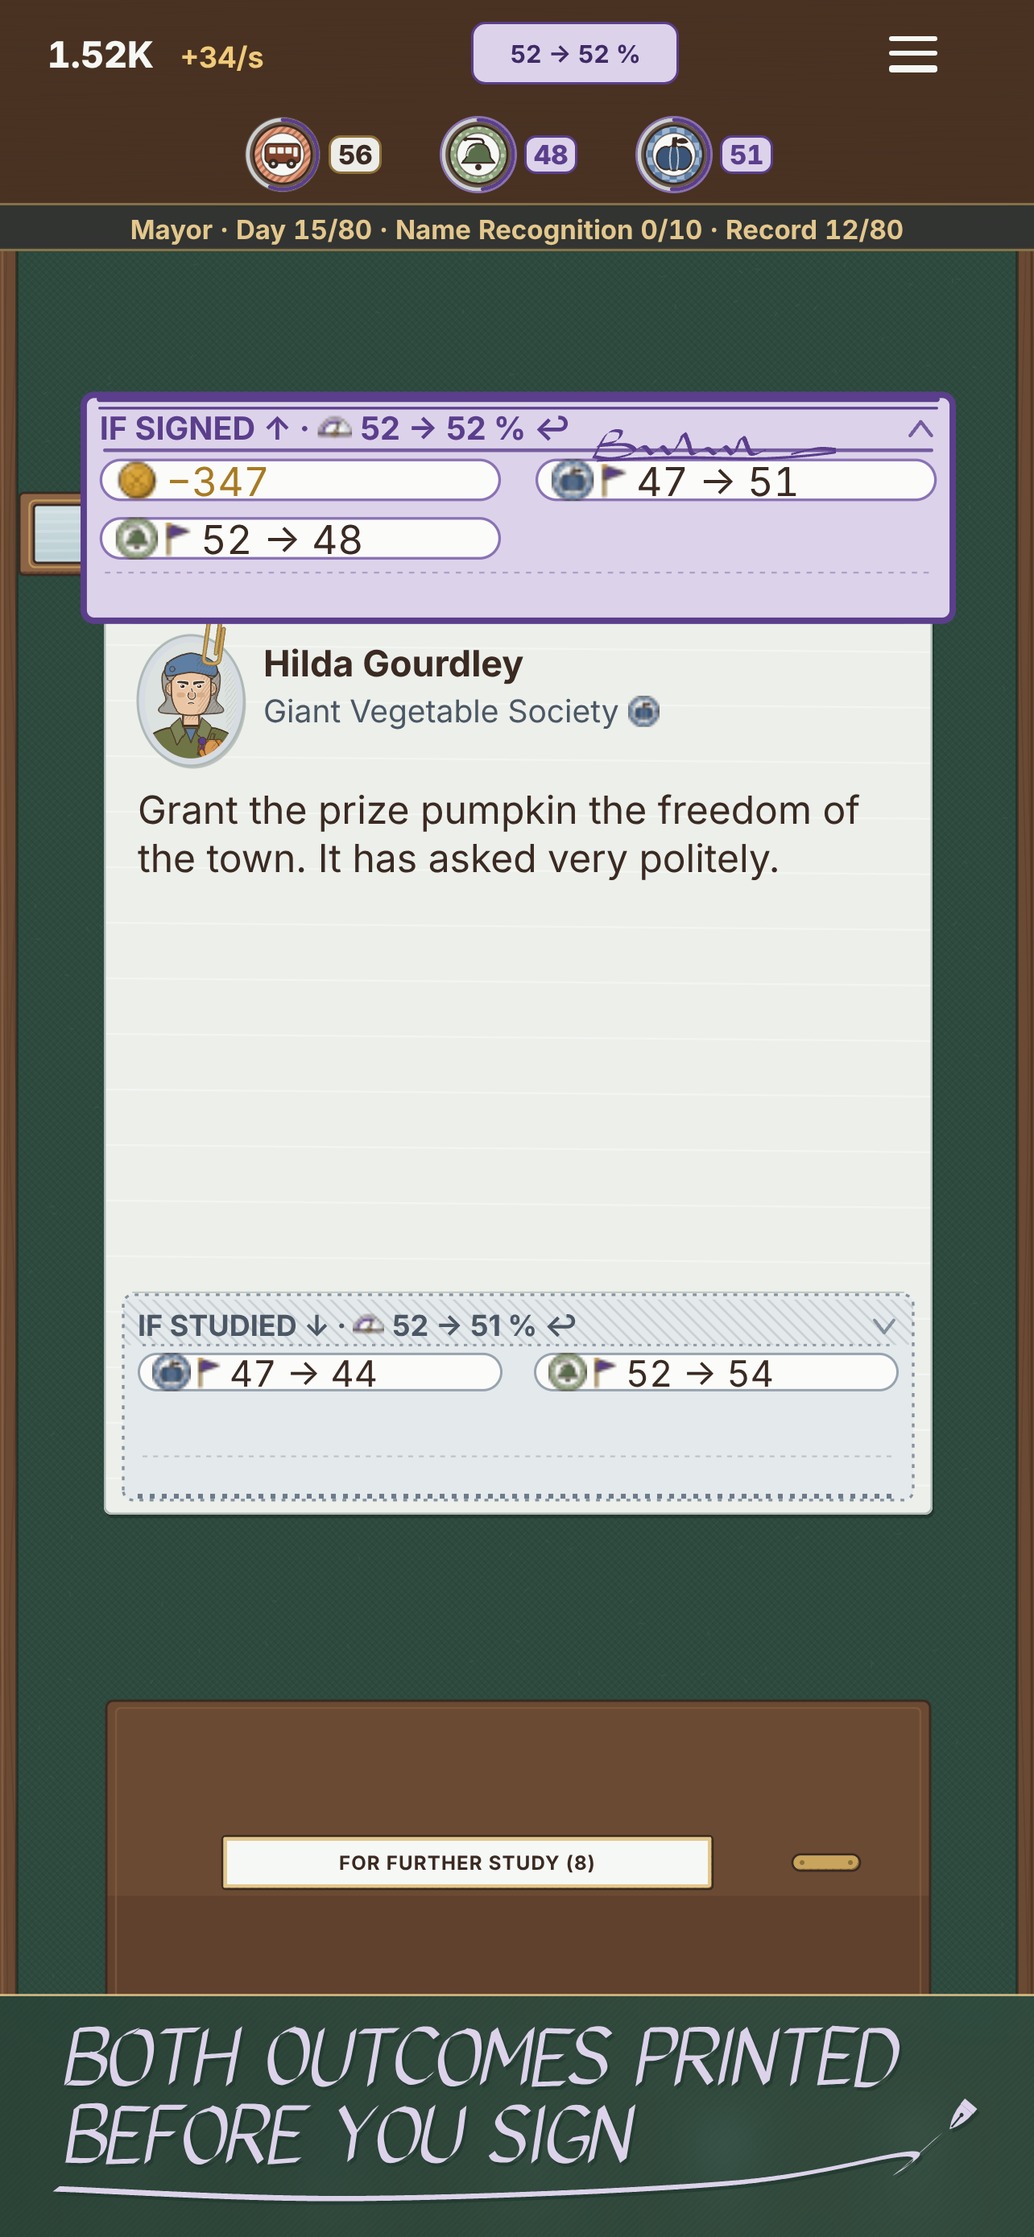
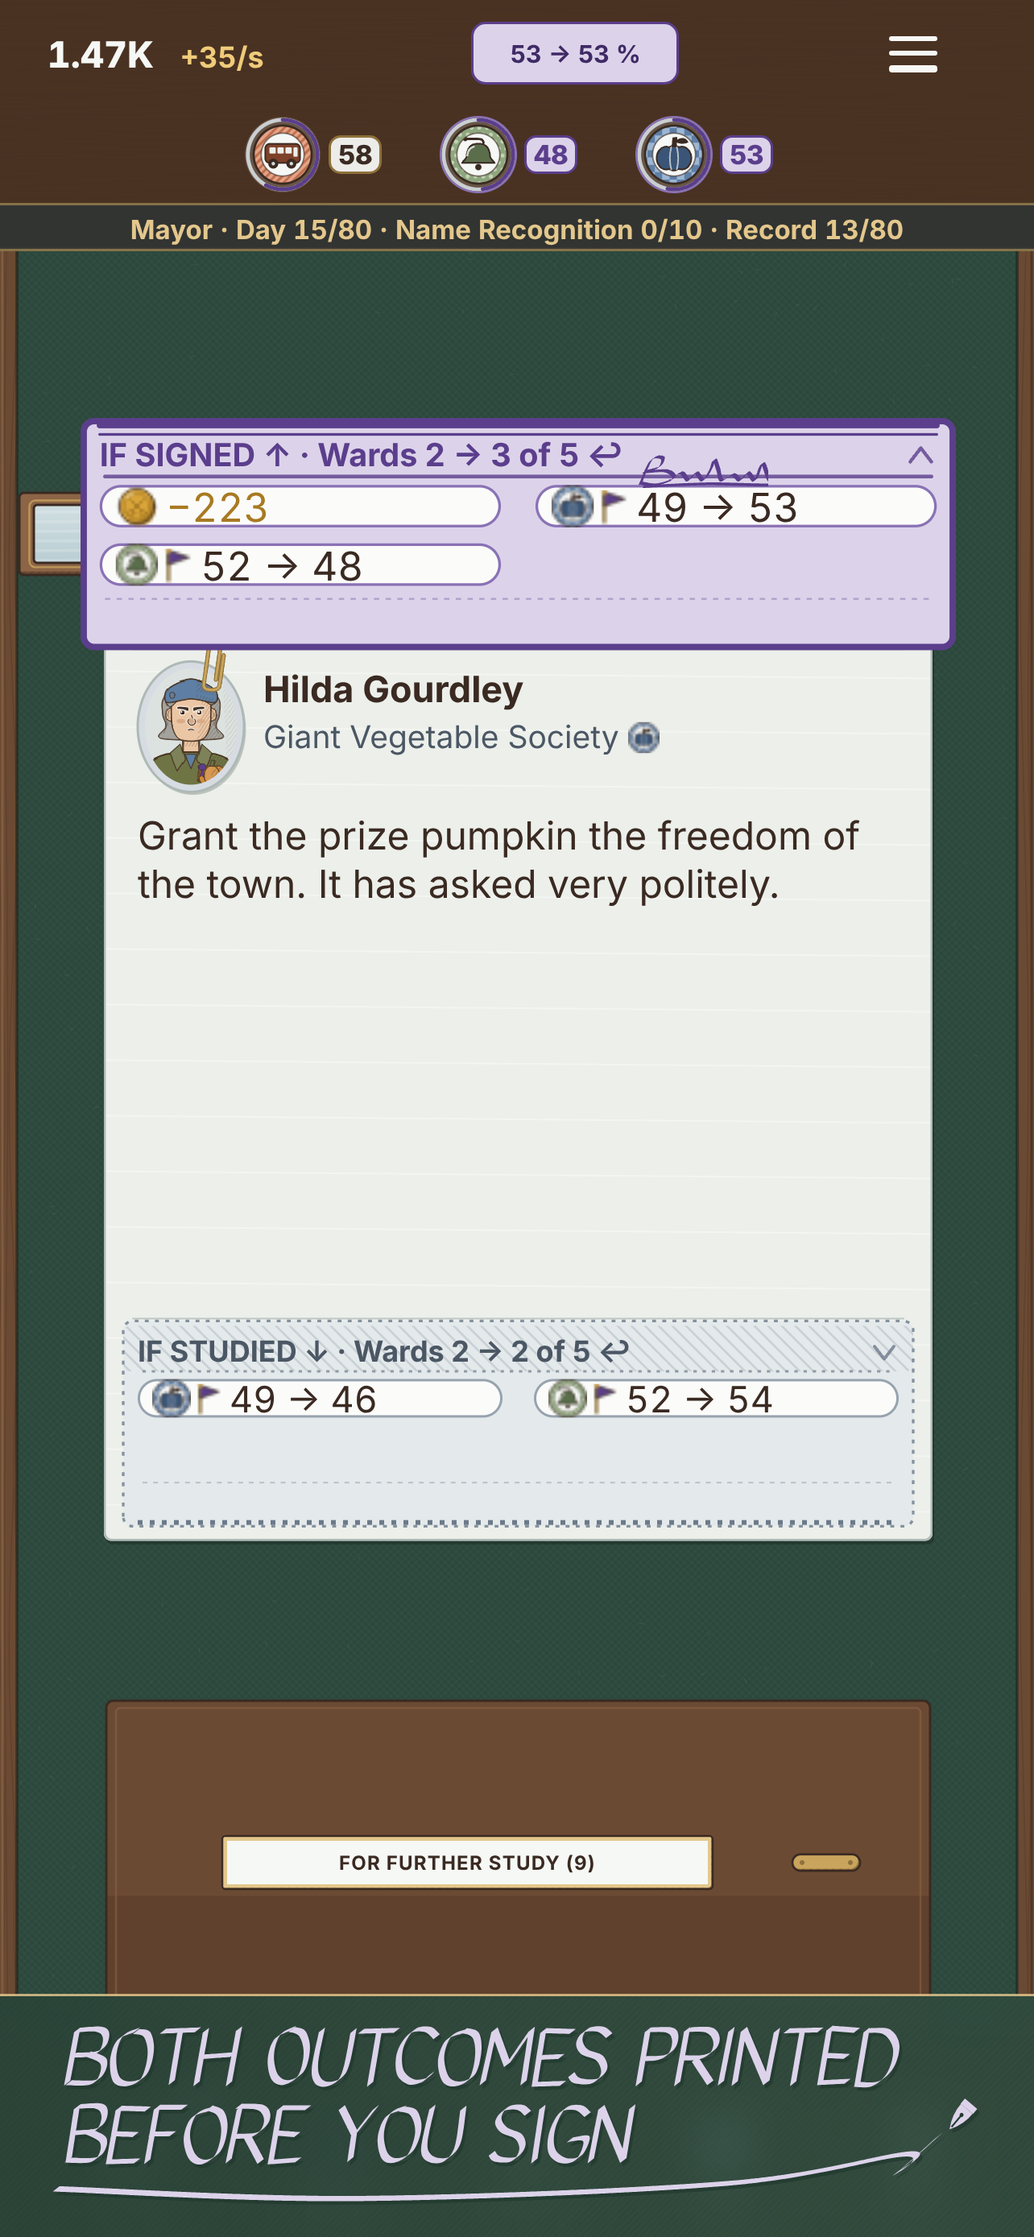
WIP High Office build in progress
Claude-Session: https://claude.ai/code/session_01DEV5UwHtj2bSoyrJab4q6m

Changed region(s): [[0.0623, 0.1548, 0.9346, 0.4024], [0.0935, 0.5572, 0.9034, 0.712], [0.0623, 0.0, 0.1246, 0.031]]

diff --git a/src/engine/decree/draw.ts b/src/engine/decree/draw.ts
@@ -8,8 +8,9 @@
  * undrawn or undecided (3.1); (3) a follow-up past its dueAt, earliest first (followup.ts: it was
  * scheduled at its set-up's commit, so never without its decided set-up); (4) a form due: the next
  * application (ministers.ts `nextApplication`; D21: only for a club the office has), a ribbon at a new
- * storey (`ribbonsDue`), a requisition every n-th draw for the open ministry with the best payback the
- * treasury can pay when it is drawn, else the cheapest next level (D16); (5) a template with
+ * storey (`ribbonsDue`) once the treasury holds its price, a requisition every n-th draw for the open
+ * ministry with the best payback the treasury can pay when it is drawn (D46 (c): none payable, its turn
+ * is kept and another paper comes); (5) a template with
  * probability q from the shuffled frame bag (none twice before it empties); else a comic paper by
  * clubWeight × share / cell size (D20: Vanity and Basket are one club-less cell per office; D28: a
  * club-less text carries the sum of the office's clubs' weights). With no unseen comic text left: a
@@ -36,8 +37,8 @@ import { shares } from './count';
 // followup.ts builds its papers with this file's builders: the two files call each other at run time only.
 import { dueFollowUp, followUpPaper } from './followup';
 import { nextApplication } from './ministers';
-import { clubIndex, decreeParams, factorOn, levelCost, levelCostRaw, levelGain, officeOf, rand, roundDibs } from './params';
-import { freezeShown } from './size';
+import { clubIndex, decreeParams, factorOn, levelCost, levelCostRaw, levelGain, officeOf, rand, roundDibs, storeys } from './params';
+import { costOf, freezeShown } from './size';
 import { slipYields } from './slips';
 import { deskFactors } from './twists';
 import type { ApplicationDef, BaseEffect, ChainDef, ClubId, ClubIx, ComicPaperDef, DecreeConfig, DecreeEvent, DecreeGame, Effect, FollowUp, FollowUpRef, FrameDef, GrievanceDef, OfficeIx, Outcome, Paper, PaperKind, Visitor } from './types';
@@ -535,26 +536,40 @@ export function applicationPaper(cfg: DecreeConfig, g: DecreeGame, minister: str
   };
 }
 
-/** D16: the requisition's ministry: the best-payback level the treasury can pay now, else the cheapest next level; null when every open ministry is capped. */
+/**
+ * D16 with D46 (c): the requisition's ministry: the best-payback level the treasury can pay now at the
+ * price the form prints; null when it can pay none (the requisition waits: `requisitionOwed`) or every
+ * open ministry is capped. D16's "else the cheapest next level" is gone.
+ */
 export function requisitionMinistry(cfg: DecreeConfig, g: DecreeGame): number | null {
   const d = g.decree;
   const p = decreeParams(cfg, g);
   const factors = deskFactors(cfg, g);
   let best = -1;
   let bestPayback = Infinity;
-  let cheapest = -1;
-  let cheapestPrice = Infinity;
   for (let i = 0; i < d.ministries.length; i++) {
     const raw = levelCostRaw(cfg, g, i);
     if (!Number.isFinite(raw)) continue;
     const price = roundDibs(cfg, raw * factorOn(factors, 'requisition.money', servedClub(cfg, d.office, i)).mul);
-    if (price < cheapestPrice) [cheapest, cheapestPrice] = [i, price];
     if (price <= g.cash) {
       const payback = price / Math.max(1e-12, levelGain(cfg, g, i, p));
       if (payback < bestPayback) [best, bestPayback] = [i, payback];
     }
   }
-  return best >= 0 ? best : cheapest >= 0 ? cheapest : null;
+  return best >= 0 ? best : null;
+}
+
+/** D46 (c): whether the treasury holds what `paper` would print on its sign side if it landed now (D23: frozen at landing). */
+export function formPayable(cfg: DecreeConfig, g: DecreeGame, paper: Paper): boolean {
+  return g.cash >= costOf(freezeShown(cfg, g, paper, deskFactors(cfg, g)).sign);
+}
+
+/** D46 (c): a ribbon in the tray the treasury cannot pay goes back to the Clerk (`ribbonsDue`, at its head) until it can; the same object when none. */
+function ribbonsBack(cfg: DecreeConfig, g: DecreeGame): DecreeGame {
+  const d = g.decree;
+  const back = d.tray.filter((p) => p.kind === 'ribbon' && p.ministry !== null && !formPayable(cfg, g, p));
+  if (!back.length) return g;
+  return withDecree(g, { tray: d.tray.filter((p) => !back.includes(p)), ribbonsDue: [...back.map((p) => ({ ministry: p.ministry!, storey: storeys(cfg, p.drawnLevel ?? 0) })), ...d.ribbonsDue] });
 }
 
 // ----------------------------------------------------------------------------- the order of 2.7
@@ -586,11 +601,21 @@ function choose(cfg: DecreeConfig, g0: DecreeGame): Drawn | null {
     const a = applicationPaper(cfg, g1, minister);
     if (a) return a;
   }
-  const rib = g1.decree.ribbonsDue[0];
-  if (rib) return ribbonPaper(cfg, withDecree(g1, { ribbonsDue: g1.decree.ribbonsDue.slice(1) }), rib.ministry);
-  if (n % officeOf(cfg, g1.decree.office).requisitionEvery === 0) {
+  // D46 (c): a ribbon is drawn only when the treasury holds the price it will print; until then it waits with the Clerk and other papers come.
+  const due = g1.decree.ribbonsDue;
+  for (let k = 0; k < due.length; k++) {
+    const r = ribbonPaper(cfg, withDecree(g1, { ribbonsDue: due.filter((_, j) => j !== k) }), due[k].ministry);
+    if (formPayable(cfg, r.g, r.paper)) return r;
+  }
+  // D46 (c): a requisition only when the treasury can pay the level it names; otherwise its turn is kept (`requisitionOwed`) and another paper is drawn.
+  const turn = n % officeOf(cfg, g1.decree.office).requisitionEvery === 0;
+  if (turn || g1.decree.requisitionOwed) {
     const i = requisitionMinistry(cfg, g1);
-    if (i !== null) return requisitionPaper(cfg, g1, i);
+    if (i !== null) {
+      const r = requisitionPaper(cfg, withDecree(g1, { requisitionOwed: false }), i);
+      if (formPayable(cfg, r.g, r.paper)) return r;
+    }
+    if (!g1.decree.requisitionOwed) g1 = withDecree(g1, { requisitionOwed: true });
   }
   // (5) a template with probability q (D42 (e): only once frames may come, never two in a row; (f): passed over for a recent visitor), else a comic paper.
   const q = officeOf(cfg, g1.decree.office).templateShare;
@@ -649,14 +674,17 @@ export function fillTray(cfg: DecreeConfig, g: DecreeGame, n: number, clock: num
  * Null with an empty tray (a due follow-up then comes with the next arrival, 2.7 step 3). Pure: the sticky
  * note and the D18 slip read it. Built.
  */
-export function nextLanding(cfg: DecreeConfig, g: DecreeGame): { kind: 'tray'; index: number; paper: Paper } | { kind: 'due'; followUp: FollowUp } | null {
+export function nextLanding(cfg: DecreeConfig, g0: DecreeGame): { kind: 'tray'; index: number; paper: Paper } | { kind: 'due'; followUp: FollowUp } | null {
+  // D46 (c): a ribbon the treasury cannot pay is not what lands next (landNext gives it back to the Clerk).
+  const g = ribbonsBack(cfg, g0);
   const d = g.decree;
+  const at = (paper: Paper) => ({ kind: 'tray' as const, index: g0.decree.tray.indexOf(paper), paper });
   if (!d.tray.length) return null;
-  if (isEventPaper(d.tray[0]) || d.phase !== 'governing' || d.tray.some((p) => p.kind === 'scripted')) return { kind: 'tray', index: 0, paper: d.tray[0] };
+  if (isEventPaper(d.tray[0]) || d.phase !== 'governing' || d.tray.some((p) => p.kind === 'scripted')) return at(d.tray[0]);
   const k = d.tray.findIndex((p) => p.kind === 'followup');
-  if (k >= 0) return { kind: 'tray', index: k, paper: d.tray[k] };
+  if (k >= 0) return at(d.tray[k]);
   const f = dueFollowUp(cfg, g);
-  return f ? { kind: 'due', followUp: f } : { kind: 'tray', index: 0, paper: d.tray[0] };
+  return f ? { kind: 'due', followUp: f } : at(d.tray[0]);
 }
 
 /**
@@ -664,9 +692,11 @@ export function nextLanding(cfg: DecreeConfig, g: DecreeGame): { kind: 'tray'; i
  * follow-up ahead of the tray, behind a grievance or a front page), or, with nothing waiting, `emptySince`
  * starts the slip's 1.0 s. The same object while the desk is taken. Built.
  */
-export function landNext(cfg: DecreeConfig, g: DecreeGame, clock: number, events: DecreeEvent[]): DecreeGame {
+export function landNext(cfg: DecreeConfig, g0: DecreeGame, clock: number, events: DecreeEvent[]): DecreeGame {
+  if (g0.decree.desk || g0.decree.pending) return g0;
+  // D46 (c): a ribbon in the tray lands only when the treasury holds its price; until then it waits with the Clerk.
+  const g = ribbonsBack(cfg, g0);
   const d = g.decree;
-  if (d.desk || d.pending) return g;
   if (!d.tray.length) return d.emptySince === null ? withDecree(g, { emptySince: clock }) : g;
   const next = nextLanding(cfg, g);
   if (next?.kind === 'due') {

diff --git a/src/engine/decree/rhythm.test.ts b/src/engine/decree/rhythm.test.ts
@@ -491,3 +491,61 @@ describe('the whole: a long careless game keeps every invariant with the new rhy
     expect(slips).toBeGreaterThan(20);
   });
 });
+
+describe('D46 (c): the Clerk\'s forms come when they can be paid', () => {
+  const n = c.offices[0].requisitionEvery;
+  const at = (g: R.DecreeGame, patch: Partial<R.DecreeGame['decree']>, cash: number): R.DecreeGame => ({ ...g, cash, decree: { ...g.decree, ...patch } });
+  const lastDrawn = (g: R.DecreeGame) => g.decree.tray[g.decree.tray.length - 1] ?? deskPaper(g)!;
+
+  it('regression: a requisition whose turn comes while no level can be paid waits (its turn kept, another paper drawn), then comes once one can', () => {
+    const g = built({ office: 0, ministries: [10, 7, 0, 0], decisions: 50, day: 1 });
+    const poor = at(g, { stats: { ...g.decree.stats, drawn: n - 1 } }, 0);
+    expect(R.requisitionMinistry(cfg, poor)).toBeNull();
+    const s = R.drawNext(cfg, poor, 1, []);
+    expect(lastDrawn(s).kind).not.toBe('requisition');
+    expect(s.decree.requisitionOwed).toBe(true);
+    // Off its turn, the next draw that can pay a level brings it, at a price the treasury holds.
+    const rich = at(s, { desk: null, tray: [] }, 1e6);
+    const r = R.drawNext(cfg, rich, 2, []);
+    expect(deskPaper(r)!.kind).toBe('requisition');
+    expect(r.decree.requisitionOwed).toBe(false);
+    expect(R.costOf(r.decree.desk!.type === 'paper' ? r.decree.desk.shown.sign : [])).toBeLessThanOrEqual(r.cash);
+    // A move gives the turn up with the office.
+    expect(R.MOVE_RESETS.some((x) => x.fields.includes('requisitionOwed'))).toBe(true);
+  });
+
+  it('regression: a ribbon is drawn only when the treasury holds its price; until then it waits with the Clerk and other papers come', () => {
+    const g = built({ office: 0, ministries: [12, 7, 0, 0], decisions: 50, day: 1 });
+    const poor = at(g, { ribbonsDue: [{ ministry: 0, storey: 1 }] }, 0);
+    const s = R.drawNext(cfg, poor, 1, []);
+    expect(lastDrawn(s).kind).not.toBe('ribbon');
+    expect(s.decree.ribbonsDue).toEqual([{ ministry: 0, storey: 1 }]);
+    const r = R.drawNext(cfg, at(s, { desk: null, tray: [] }, 1e6), 2, []);
+    expect(deskPaper(r)!.kind).toBe('ribbon');
+    expect(r.decree.ribbonsDue).toEqual([]);
+  });
+
+  it('a ribbon in the tray the treasury can no longer pay goes back to the Clerk: other papers land; alone, the desk waits and the ribbon lands once it can be paid', () => {
+    const g = built({ office: 0, ministries: [12, 7, 0, 0], decisions: 50, day: 1, cash: 1e6 });
+    const rib = R.ribbonPaper(cfg, g, 0);
+    const com = R.comicPaper(cfg, rib.g, mayorIds('swap')[0]);
+    // Behind it a comic paper: the comic lands, the ribbon waits with the Clerk; the sticky note never names it.
+    const two = at(com.g, { desk: null, tray: [rib.paper, com.paper] }, 0);
+    expect(R.nextLanding(cfg, two)).toMatchObject({ kind: 'tray', paper: { id: com.paper.id } });
+    const landed = R.landNext(cfg, two, 0, []);
+    expect(deskPaper(landed)!.id).toBe(com.paper.id);
+    expect(landed.decree.tray).toEqual([]);
+    expect(landed.decree.ribbonsDue.map((x) => x.ministry)).toEqual([0]);
+    // Alone in the tray: nothing lands, the desk waits; with income the next arrival that can pay brings it (no deadlock).
+    const alone = at(com.g, { desk: null, tray: [rib.paper], nextArrivalAt: 5 }, 0);
+    expect(R.nextLanding(cfg, alone)).toBeNull();
+    const w = R.landNext(cfg, alone, 0, []);
+    expect(w.decree.desk).toBeNull();
+    expect(w.decree.ribbonsDue.length).toBe(1);
+    const ev: R.DecreeEvent[] = [];
+    const later = R.advanceDecree(cfg, w, 3000, 0, ev);
+    const ribbons = [deskPaper(later), ...later.decree.tray].filter((p) => p?.kind === 'ribbon');
+    expect(ribbons.length).toBe(1);
+    expect(later.decree.ribbonsDue).toEqual([]);
+  });
+});

diff --git a/scripts/store/templates/signature.ts b/scripts/store/templates/signature.ts
@@ -275,8 +275,7 @@ ${inkCaption(lines, left, base, size, DESK.violetPale, 11 + o.index * 3)}
  * Play feature graphic, 1024 x 500: no icon, no tagline (Play: no branding similar to the app
  * icon). A centred composition with no left-title / right-picture split (store review, 24 November:
  * that split is Lantern Row's): the baize desk seen from above under a lamp; in the middle, a signed
- * paper of the game (the capture's band) tilted as it is flicked up toward the out-tray, running off
- * the top edge, with the felt's speed marks under it; along the foot the desk's walnut rim, and on
+ * paper of the game (the capture's band) tilted as it is flicked up toward the out-tray, with the felt's speed marks under it; along the foot the desk's walnut rim, and on
  * it, centred, a brass name plate with the name engraved in the same nib hand, ending in its
  * flourish. Compare warm.ts (a centred name over a sun, the scene in a box under it), panel.ts (the
  * field full-bleed, a thin letter-spaced wordmark low down) and tag.ts (paper-cut capitals at the
@@ -287,26 +286,26 @@ export function featureHtml(o: FeatureOpts): string {
   const rim = Math.round(H * 0.2);
   const rimY = H - rim;
   // The paper: a box about as wide as the paper (the band's maxZoom lets it fill it), centred, run off the top.
-  const boxH = Math.round(H * 0.86);
+  const boxH = Math.round(H * 0.74);
   const boxW = Math.round(boxH * 0.9);
   const boxX = Math.round(W / 2 - boxW / 2);
-  const boxY = Math.round(-H * 0.1);
+  const boxY = Math.round(H * 0.035);
   // The plate: one line of the nib hand, centred on the rim.
   const title = o.title.replace(/\s+/g, ' ').trim();
-  const size = Math.min(rim * 0.42, (W * 0.5) / (lineUnits(title) + 1.7));
+  const size = Math.min(rim * 0.34, (W * 0.46) / (lineUnits(title) + 1.7));
   const textW = lineUnits(title) * size;
-  const plateW = Math.round(textW + size * 2.6);
-  const plateH = Math.round(rim * 0.7);
+  const plateW = Math.round(textW + size * 3.6);
+  const plateH = Math.round(rim * 0.8);
   const plateX = Math.round(W / 2 - plateW / 2);
   const plateY = Math.round(rimY + (rim - plateH) / 2);
-  const tx = W / 2 - (textW + size * 0.9) / 2;
-  const ty = plateY + plateH / 2 + size * 0.42;
+  const tx = W / 2 - (textW + size * 1.6) / 2;
+  const ty = plateY + plateH * 0.5 + size * 0.3;
   const screw = (cx: number) => `<circle cx="${cx}" cy="${plateY + plateH / 2}" r="${(plateH * 0.07).toFixed(1)}" fill="${DESK.brassDeep}"/><line x1="${cx - plateH * 0.05}" y1="${plateY + plateH / 2 - plateH * 0.05}" x2="${cx + plateH * 0.05}" y2="${plateY + plateH / 2 + plateH * 0.05}" stroke="${DESK.brassLight}" stroke-width="1.2"/>`;
   const streak = (x: number, y: number, l: number) => `<path d="M${x} ${y} l${(-l * 0.1).toFixed(1)} ${l}" stroke="${DESK.baizeLift}" stroke-width="${(H * 0.012).toFixed(1)}" stroke-linecap="round" opacity=".9"/>`;
   return `<!doctype html><html><head><meta charset="utf-8"><style>
 *{margin:0;padding:0;box-sizing:border-box}
 html,body{width:${W}px;height:${H}px;overflow:hidden;background:${DESK.baize}}
-.paper{position:absolute;left:${boxX}px;top:${boxY}px;width:${boxW}px;height:${boxH}px;overflow:hidden;transform:rotate(-6deg);transform-origin:50% 100%;border-radius:4px;box-shadow:0 ${Math.round(H * 0.04)}px ${Math.round(H * 0.06)}px rgba(20,34,28,.55)}
+.paper{position:absolute;left:${boxX}px;top:${boxY}px;width:${boxW}px;height:${boxH}px;overflow:hidden;transform:rotate(-5deg);transform-origin:50% 50%;border-radius:4px;box-shadow:0 ${Math.round(H * 0.04)}px ${Math.round(H * 0.06)}px rgba(20,34,28,.55)}
 svg{position:absolute;left:0;top:0}
 </style></head><body>
 <svg width="${W}" height="${H}" viewBox="0 0 ${W} ${H}"><defs>${feltDefs(0.8)}

diff --git a/scripts/store/scenes/high-office.ts b/scripts/store/scenes/high-office.ts
@@ -80,8 +80,8 @@ const deskText = (needs: RegExp[]) => (t: string) => {
 /** The paper with its strips and nothing beside it (the feature graphic tilts it as a sheet): as wide as the paper, from above its raised strip. */
 const paperBand = (v: View): BandSpec => {
   const r = layout(v).paper;
-  const y0 = r.y - 100;
-  return { y0, y1: y0 + 318, anchor: 'top', maxZoom: v.w / (r.w + 6), cx: r.x + r.w / 2 };
+  const y0 = r.y - 78;
+  return { y0, y1: y0 + 296, anchor: 'top', maxZoom: v.w / (r.w + 6), cx: r.x + r.w / 2 };
 };
 
 /** Page code: scrolls the Office wall so the heading `re` sits just under the view's top bar. */

diff --git a/src/engine/decree/move.ts b/src/engine/decree/move.ts
@@ -42,7 +42,7 @@ export interface MoveListItem {
 export const MOVE_RESETS: readonly MoveListItem[] = [
   { id: 'treasury', fields: ['cash', 'runEarnings', 'cashAnchor'] },
   { id: 'office', fields: ['office', 'term', 'presTerms', 'twistIndex', 'twists', 'monumentOffer', 'adsUsed', 'appSlotsUsed', 'picketsThisTerm', 'signedThisTerm'] },
-  { id: 'ministries', fields: ['ministries', 'ribbonsDue'] },
+  { id: 'ministries', fields: ['ministries', 'ribbonsDue', 'requisitionOwed'] },
   { id: 'moods', fields: ['moods'] },
   { id: 'gossip', fields: ['gossip', 'quiet'] },
   { id: 'boycotts', fields: ['strikes', 'armed'] },

diff --git a/src/engine/decree/types.ts b/src/engine/decree/types.ts
@@ -773,6 +773,8 @@ export interface DecreeState {
    * a slip lands between two papers only once this reaches `slips.betweenEvery`. 0 at a move.
    */
   papersSinceSlip: number;
+  /** D46 (c): a requisition's turn came while the treasury could pay no level; the next draw that can pay one brings it. false at a move. */
+  requisitionOwed: boolean;
   /** D42 (e): papers with a written text (every kind but a template frame and the Clerk's forms) landed in this game. */
   handLanded: number;
   /** D42 (e): the last paper drawn was a template frame (never two frames in a row). */

diff --git a/src/engine/decree/create.ts b/src/engine/decree/create.ts
@@ -81,6 +81,7 @@ export function freshDecree(cfg: DecreeConfig, seed: number, office: OfficeIx = 
     appSlotsUsed: 0,
     signedThisTerm: 0,
     papersSinceSlip: 0,
+    requisitionOwed: false,
     handLanded: 0,
     frameLast: false,
     visitorsSeen: {},

diff --git a/scripts/store/README.md b/scripts/store/README.md
@@ -192,7 +192,7 @@ They differ in composition, not only in colour, and so do the sets (Lantern Row'
 | Colour | the game's palette baize-and-ink (`src/ui/decree/art/palette.ts`): baize #2E4A3E, violet pale #DCD3EA, brass light #E3C78C |
 | Ornament and counter | the flourish and the nib; no counter, no rule, no tag |
 | Rhythm across the set | none on purpose: every caption sits at the same place, like a signature at the foot of each paper |
-| Feature graphic | centred, no left-title / right-picture split (that is Lantern Row's): the baize desk under a lamp; the signed pumpkin paper of shot 2 (its SIGN strip with the signature, the visitor, the proposal) tilted in the middle as it is flicked up, running off the top edge, speed marks in the felt under it; the walnut rim along the foot with a centred brass name plate, "PROUDLY ADEQUATE" engraved in the same nib hand with its flourish; no icon, no tagline |
+| Feature graphic | centred, no left-title / right-picture split (that is Lantern Row's): the baize desk under a lamp; the signed pumpkin paper of shot 2 (its SIGN strip with the signature, the visitor, the proposal) tilted in the middle as it is flicked up, speed marks in the felt under it; the walnut rim along the foot with a centred brass name plate, "PROUDLY ADEQUATE" engraved in the same nib hand with its flourish; no icon, no tagline |
 
 Nothing in any of them: no device frame, no store badge, no award, rank, price,
 "free", "No.1", "best", no call to action, no app icon in the feature graphic
